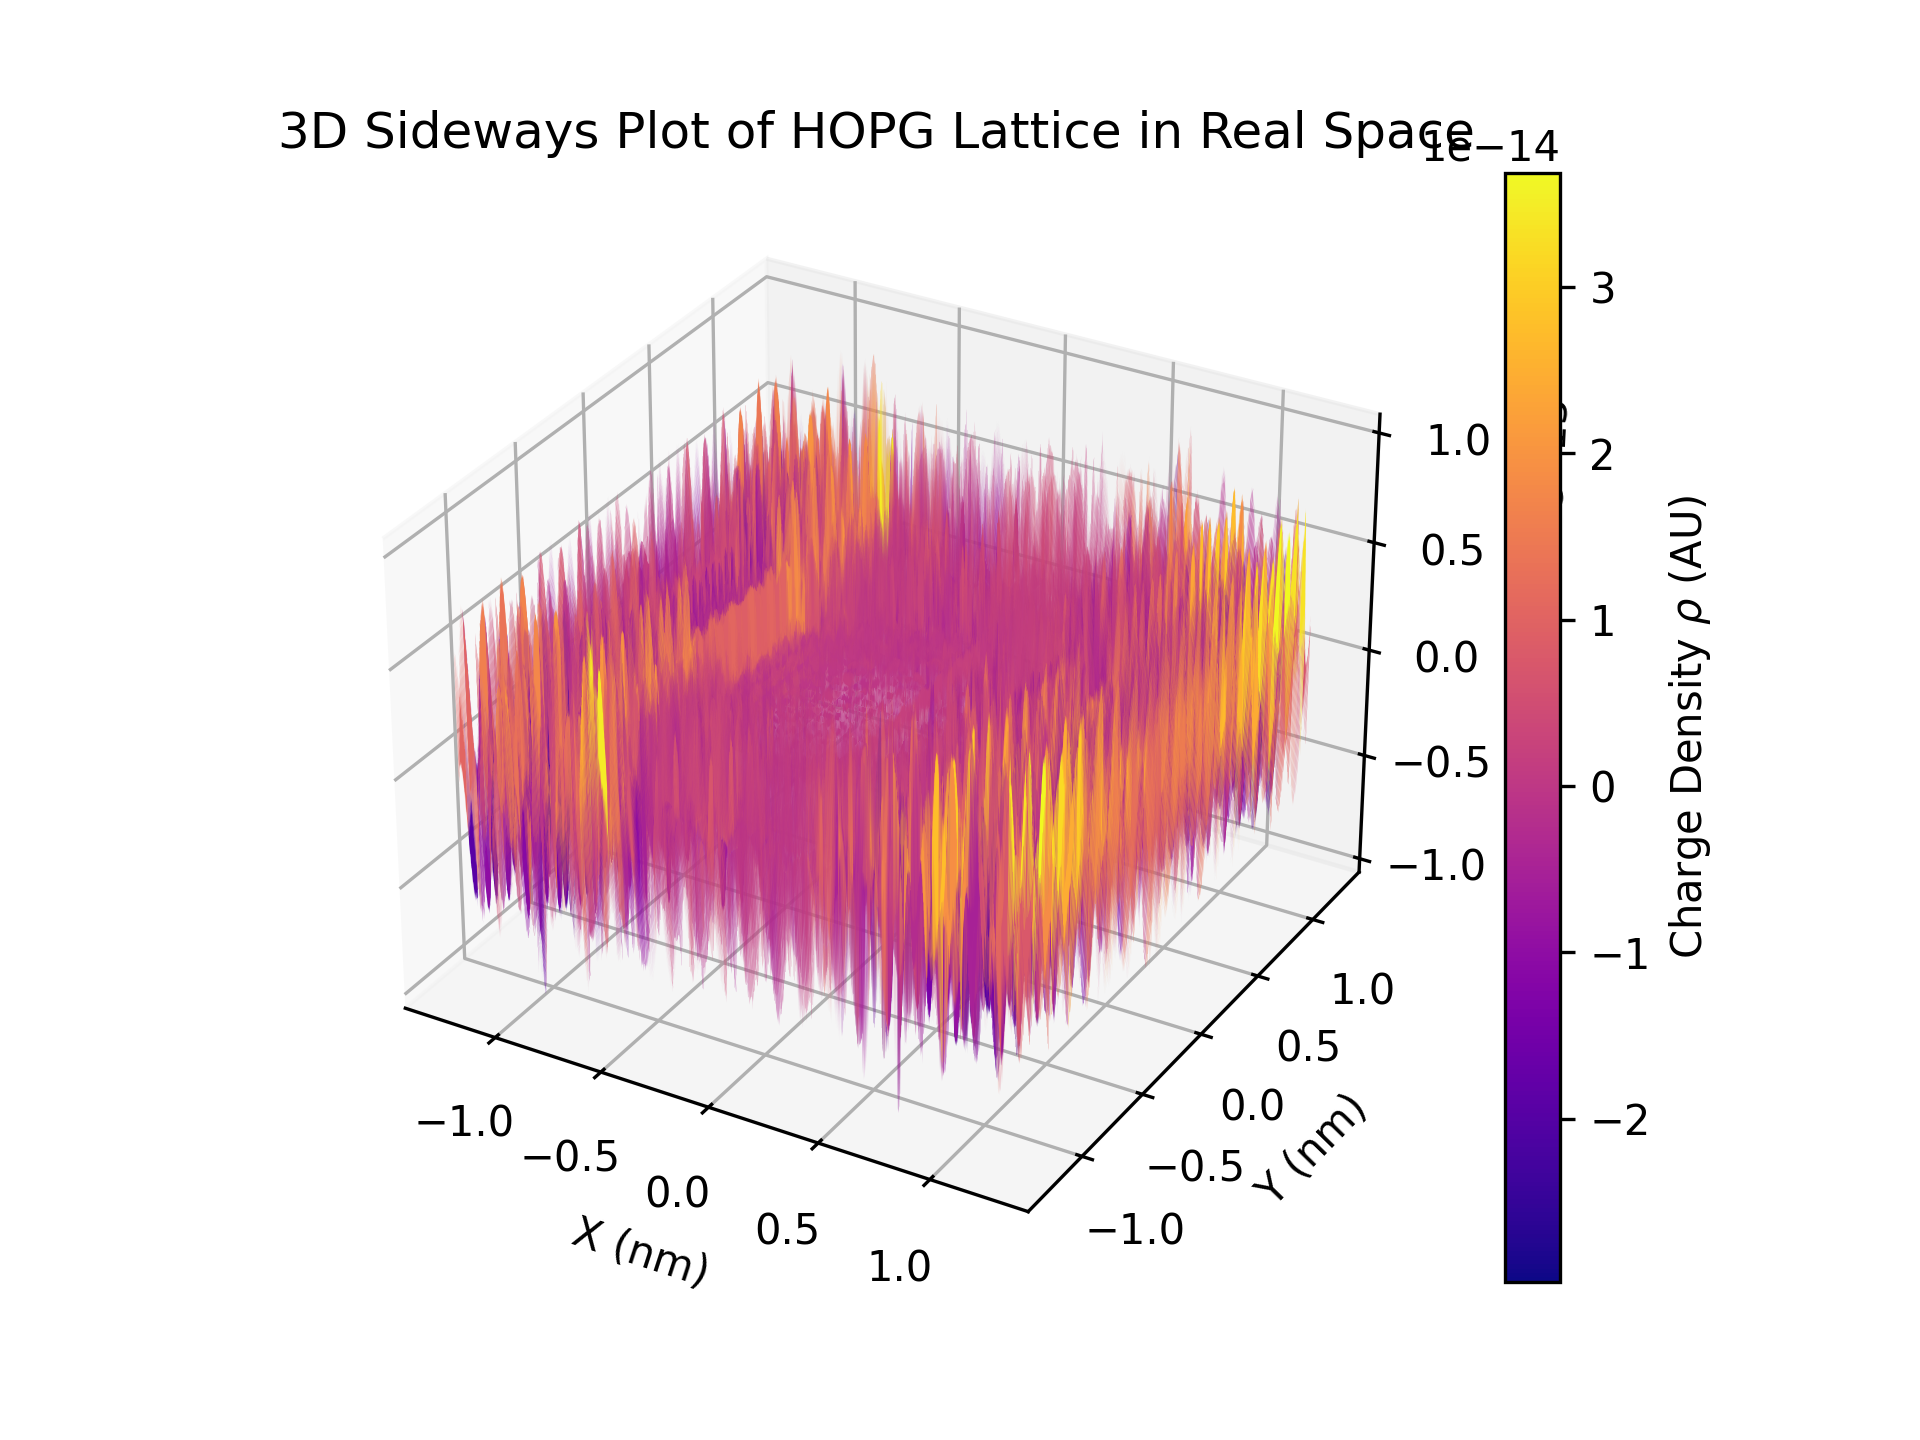
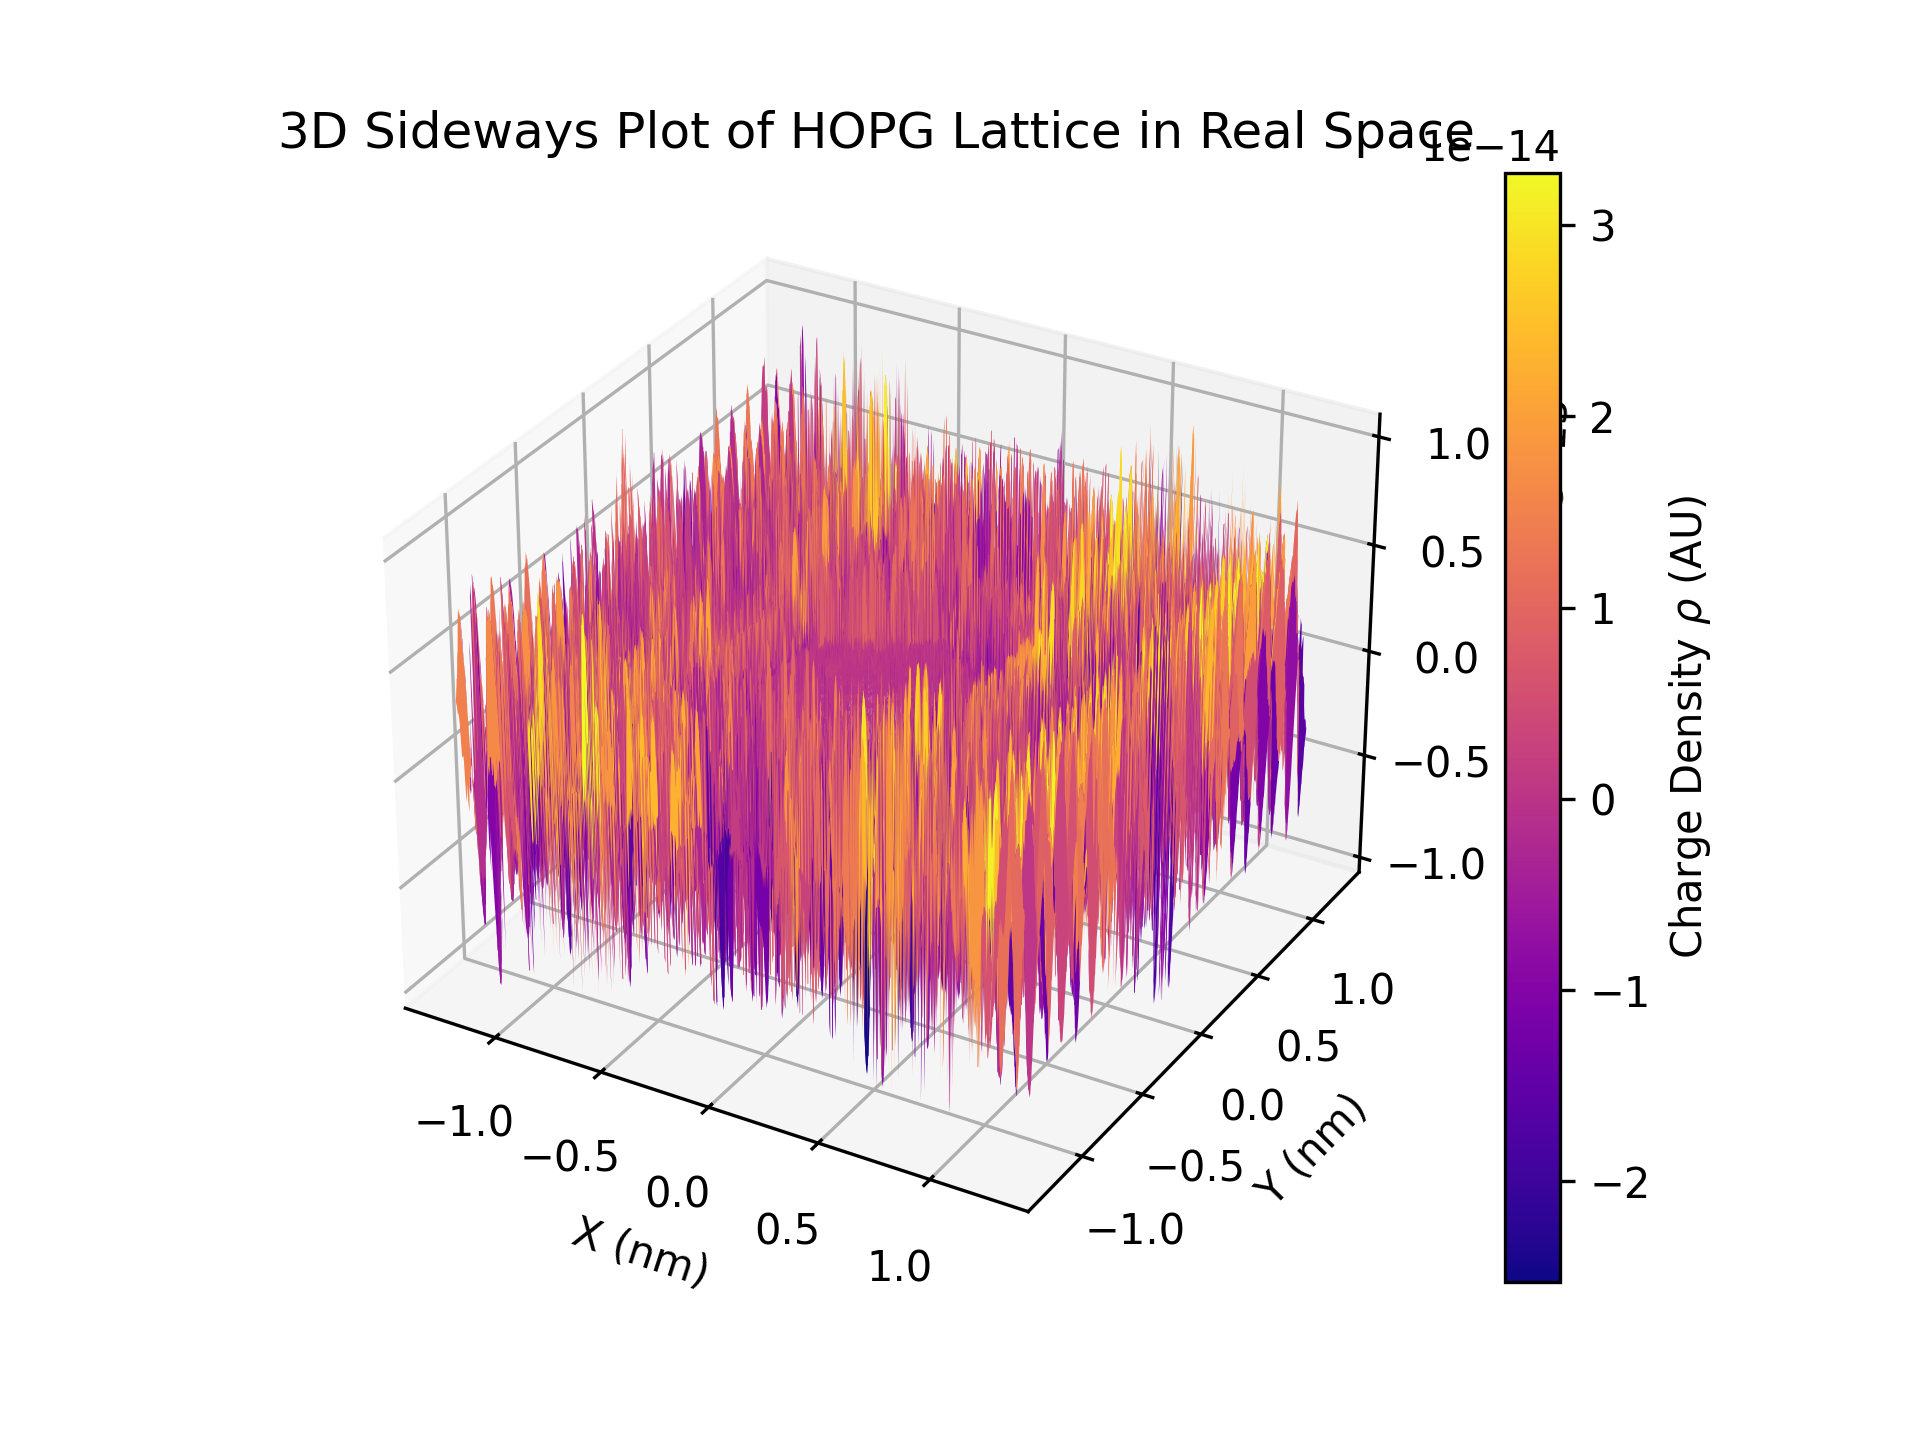
Added more images to FFTSim

diff --git a/FFTSim.py b/FFTSim.py
@@ -115,7 +115,7 @@ def simulate_hopg_lattice(n_harmonics, k, theta, real_space_size,order,n):
     plt.ylim(n//2-scale_length, n//2+scale_length)
     plt.xticks(ticks=np.linspace(n//2-scale_length, n//2+scale_length, 5), labels=np.round(np.linspace(kx[n//2-scale_length], kx[n//2+scale_length], 5), 1))
     plt.yticks(ticks=np.linspace(n//2-scale_length, n//2+scale_length, 5), labels=np.round(np.linspace(ky[n//2-scale_length], ky[n//2+scale_length], 5), 1))
-    plt.colorbar(label=r'$\log{(Intensity()}$ (AU)')
+    plt.colorbar(label=r'$\log{(Intensity)}$ (AU)')
 
     for i, (y, x) in enumerate(filtered_spot_coords):
         plt.scatter(x, y, edgecolor='red', facecolor='none', s=100)
@@ -136,10 +136,11 @@ def simulate_hopg_lattice(n_harmonics, k, theta, real_space_size,order,n):
                     closest_j = j
         if closest_j is not None:
             plt.plot([filtered_spot_coords[i][1], filtered_spot_coords[closest_j][1]], [filtered_spot_coords[i][0], filtered_spot_coords[closest_j][0]], 'r-')
-    plt.plot([filtered_spot_coords[3][1], filtered_spot_coords[5][1]], [filtered_spot_coords[3][0], filtered_spot_coords[5][0]], 'r-')
-    plt.plot([filtered_spot_coords[2][1], filtered_spot_coords[4][1]], [filtered_spot_coords[2][0], filtered_spot_coords[4][0]], 'r-')
+    plt.plot([filtered_spot_coords[0][1], filtered_spot_coords[3][1]], [filtered_spot_coords[0][0], filtered_spot_coords[3][0]], 'r-')
+    plt.plot([filtered_spot_coords[1][1], filtered_spot_coords[2][1]], [filtered_spot_coords[1][0], filtered_spot_coords[2][0]], 'r-')
     for i, (y, x) in enumerate(filtered_spot_coords):
-        print(f"Spot {i+1}: (kx, ky) = ({kx[x]:.2f}, {ky[y]:.2f})")
+        distance_from_origin = np.sqrt((kx[x] - kx[n//2])**2 + (ky[y] - ky[n//2])**2)
+        print(f"Spot {i+1}: (kx, ky) = ({kx[x]:.2f}, {ky[y]:.2f}), Distance from origin = {distance_from_origin:.2f} 1/nm")
     # Draw arrows from the center to each of the spots
     center_x, center_y = n // 2, n // 2
     for i, (y, x) in enumerate(filtered_spot_coords):
@@ -147,15 +148,18 @@ def simulate_hopg_lattice(n_harmonics, k, theta, real_space_size,order,n):
         dy = y - center_y
         arrow_length = np.sqrt(dx**2 + dy**2) - 7  # shorten the arrow by 5 units
         plt.arrow(center_x, center_y, dx * (arrow_length / np.sqrt(dx**2 + dy**2)), dy * (arrow_length / np.sqrt(dx**2 + dy**2)), color='yellow', head_width=3, head_length=3)
+    # Add labels to the arrows corresponding to points 1 and 4
+    plt.text(filtered_spot_coords[5][1]-10, filtered_spot_coords[5][0] + 2, r'$\vec{g_1}$', color='yellow', fontsize=12, ha='center')
+    plt.text(filtered_spot_coords[3][1]-10, filtered_spot_coords[3][0] - 10, r'$\vec{g_2}$', color='yellow', fontsize=12, ha='center')
     plt.savefig(f"Produced_Plots/FFTSIM/HOPG_Lattice_Reciprocal_Space_Highlighted_{real_space_size}nm.png", dpi=300)
     plt.show()
 
 
 # Constants for HOPG lattice
 a = 0.246  # lattice constant for graphene in nm
-k = 2 * np.pi / a  # wave vector
-n_pts = 3000 # size of the simulation grid
-real_space_size = 3.5 # nm
+k = 4 * np.pi / (a*np.sqrt(3))  # wave vector
+n_pts = 1000 # size of the simulation grid
+real_space_size = 3# nm
 theta = np.pi / 3  
 n_harmonics = 10  # number of harmonics to include in the lattice
 simulate_hopg_lattice(n_harmonics, k, theta, real_space_size,10,n_pts)

diff --git a/kSpace.py b/kSpace.py
@@ -24,25 +24,27 @@ for filename in os.listdir(directory_path):
 
 print(fourth_column_values)
 # Convert the list of strings to a list of floats
-fourth_column_values = [float(value) for value in fourth_column_values]
+fourth_column_values = [float(value)*2*np.pi for value in fourth_column_values]
 
 # Calculate the mean
 mean_value = np.mean(fourth_column_values)
 
 # Calculate the standard error of the mean
-standard_error = np.std(fourth_column_values) / np.sqrt(len(fourth_column_values))
+standard_error = np.std(fourth_column_values) / np.sqrt(len(fourth_column_values)-1)
 # Print the results in scientific notation
 
 a = 0.2461e-9 #lattice parameter in meters
 k = 4 * np.pi / (a*np.sqrt(3))
+k_pixel = 64.4e9*2*np.pi/128
 #k = 2*np.pi/a 
 print(f'Desired value: {k:.2e}')
 print(f"Mean: {mean_value:.2e}")
 print(f"Standard Error: {standard_error:.2e}")
 diff = abs(mean_value - k/2)
-sigma = diff/standard_error
+sigma = diff/k_pixel
 print(f"This many sigma away: {sigma}")
 
+print(f"Pixel size in k-space: {k_pixel:.2e} 1/m")
 import matplotlib.pyplot as plt
 import matplotlib.image as mpimg
 
@@ -67,3 +69,28 @@ plt.savefig(output_path)
 
 # Show the plot (optional)
 plt.show()
+
+# Load the new image
+image_path_fixed = os.path.join('RawData', 'fixed-real.png')
+image_fixed = mpimg.imread(image_path_fixed)
+
+# Create a new figure and axis
+fig_fixed, ax_fixed = plt.subplots()
+
+# Display the new image
+ax_fixed.imshow(image_fixed, extent=[-1, 1, -1, 1])
+
+# Set the x and y axis labels
+ax_fixed.set_xlabel('X (nm)')
+ax_fixed.set_ylabel('Y (nm)')
+# Set the plot title
+ax_fixed.set_title('Experimental HOPG Data')
+
+# Remove excess white space
+plt.tight_layout()
+
+# Save the figure with axes to the Produced_Plots directory
+output_path_fixed = os.path.join('Produced_Plots', 'fixed-real_with_axes.png')
+plt.savefig(output_path_fixed, dpi=300)
+
+# Show the plot (optional)

diff --git a/image.py b/image.py
@@ -1,0 +1,55 @@
+from PIL import Image
+
+# Load the images
+image1 = Image.open('RawData/bestImageSim.png')
+image2 = Image.open('RawData/real-fixed.jpg')
+
+# Get the dimensions of the images
+width1, height1 = image1.size
+width2, height2 = image2.size
+
+# Determine the new width and height for the images
+new_width = min(width1, width2)
+new_height1 = int((new_width / width1) * height1)
+new_height2 = int((new_width / width2) * height2)
+
+# Resize the images
+image1 = image1.resize((new_width, new_height1), Image.ANTIALIAS)
+image2 = image2.resize((new_width, new_height2), Image.ANTIALIAS)
+
+# Create a new image with the combined height and the new width
+new_image = Image.new('RGB', (new_width, new_height1 + new_height2))
+
+# Paste the images into the new image
+new_image.paste(image1, (0, 0))
+new_image.paste(image2, (0, new_height1))
+
+# Save the new image
+new_image.save('Produced_Plots/combined_image.png')
+
+# Load the images
+image3 = Image.open('Produced_Plots/FFTSIM/HOPG_Lattice_Reciprocal_Space_3nm.png')
+image4 = Image.open('RawData/k-vec.jpg')
+
+# Get the dimensions of the images
+width3, height3 = image3.size
+width4, height4 = image4.size
+
+# Determine the new width and height for the images
+new_width2 = min(width3, width4)
+new_height3 = int((new_width2 / width3) * height3)
+new_height4 = int((new_width2 / width4) * height4)
+
+# Resize the images
+image3 = image3.resize((new_width2, new_height3), Image.ANTIALIAS)
+image4 = image4.resize((new_width2, new_height4), Image.ANTIALIAS)
+
+# Create a new image with the combined height and the new width
+new_image2 = Image.new('RGB', (new_width2, new_height3 + new_height4))
+
+# Paste the images into the new image
+new_image2.paste(image3, (0, 0))
+new_image2.paste(image4, (0, new_height3))
+
+# Save the new image
+new_image2.save('Produced_Plots/combined_image2.png')
